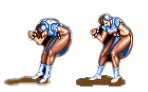
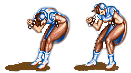
Player 2 Jump added and Reload on Health 0 feature added

diff --git a/Street_Fighter/js/player2.js b/Street_Fighter/js/player2.js
@@ -5,8 +5,7 @@ var Player2_resource = {
     punch: './images/chunli_assets/chun_punch2.png',
     block: './images/chunli_assets/chun_block.png',
     haduoken: './images/chunli_assets/chun_hadouken.png',
-    die: './images/chunli_assets/chun_die.png',
-    victory: './images/chunli_assets/chun_victory.png',
+    jump: './images/chunli_assets/chun_jump.png',
     values: {
       w: {
         x: 424,
@@ -21,10 +20,11 @@ var Player2_resource = {
         frameIndex: 0,
       },
       p: {
-        x: 171,
+        x: 95,
         y: 92,
-        f: 2,
+        f: 1,
         frameIndex: 1,
+        offsetX: 0.4,
       },
       b: {
         x: 132,
@@ -49,6 +49,11 @@ var Player2_resource = {
         y: 107,
         f: 4,
         frameIndex: 4,
+      },
+      j: {
+        x: 40,
+        y: 92,
+        f: 1,
       },
     },
   },
@@ -91,11 +96,19 @@ class Player2 {
 
     // Walk Image
     this.imgWalkp2 = new Image();
-    this.imgWalkp2.src = './images/chunli_assets/chun_walk.png';
-    this.imgWalkX = 424;
-    this.imgWalkY = 92;
-    this.imgWalkp2.frames = 8;
+    this.imgWalkp2.src = Player2_resource[this.player].walk;
+    this.imgWalkX = Player2_resource[this.player].values.w.x;
+    this.imgWalkY = Player2_resource[this.player].values.w.y;
+    this.imgWalkp2.frames = Player2_resource[this.player].values.w.f;
     this.imgWalkp2.frameIndex = 0;
+
+    //Jump Image
+    this.imgJumpp2 = new Image();
+    this.imgJumpp2.src = Player2_resource[this.player].jump;
+    this.imgJumpX = Player2_resource[this.player].values.j.x;
+    this.imgJumpY = Player2_resource[this.player].values.j.y;
+    this.imgJumpp2.frames = Player2_resource[this.player].values.j.f;
+    this.imgJumpp2.frameIndex = 0;
 
     //Punch Image
     this.imgPunchp2 = new Image();
@@ -117,10 +130,16 @@ class Player2 {
   }
 
   draw(framesCounter) {
+    if (this.startPointY < 150) {
+      this.states.jump = true;
+    }
     if (this.states.left || this.states.right) {
       this.drawWalk(framesCounter);
     } else if (this.states.punch) {
       this.drawPunch(framesCounter);
+    } else if (this.states.jump) {
+      console.log('jump2');
+      this.drawJump(framesCounter);
     } else if (this.states.block) {
       this.drawBlock(framesCounter);
     } else {
@@ -196,7 +215,7 @@ class Player2 {
       this.imgPunchY,
       this.startPointX,
       this.startPointY,
-      this.imgPunchX / 0.8,
+      this.imgPunchX / Player2_resource[this.player].values.p.offsetX,
       this.imgPunchY * this.yFrameAdjuster
     );
     this.animateImgPunch(framesCounter);
@@ -204,7 +223,7 @@ class Player2 {
 
   animateImgPunch(framesCounter) {
     if (framesCounter % 20 === 0) {
-      this.imgPunchp2.frameIndex -= 1;
+      this.imgPunchp2.frameIndex = 0;
 
       if (this.imgPunchp2.frameIndex < 0) this.imgPunchp2.frameIndex = 0;
     }
@@ -230,6 +249,32 @@ class Player2 {
     if (framesCounter % 30 === 0) {
       if (this.imgBlockp2.frameIndex > 1) this.imgBlockp2.frameIndex = 0;
     }
+  }
+
+  drawJump(framesCounter) {
+    this.ctx.drawImage(
+      this.imgJumpp2,
+      this.imgJumpp2.frameIndex *
+        Math.floor(this.imgJumpX / this.imgJumpp2.frames) *
+        3,
+      0,
+      Math.floor(this.imgJumpX / this.imgJumpp2.frames),
+      this.imgJumpY,
+      this.startPointX,
+      (this.startPointY -= 35),
+      this.imgJumpX / 0.4,
+      this.imgJumpY * this.yFrameAdjuster
+    );
+    this.animateImgJump(framesCounter);
+  }
+
+  animateImgJump(framesCounter) {
+    // this.startPointY = 40;
+    this.startPointY = 40;
+    setTimeout(() => {
+      this.startPointY = 150;
+      this.states.jump = false;
+    }, 200);
   }
 
   move() {

diff --git a/Street_Fighter/js/game.js b/Street_Fighter/js/game.js
@@ -6,6 +6,7 @@ var Game = {
     player1block: 69,
     player1punch: 88,
     player1jump: 87,
+    player1hadouken: 81,
 
     player2left: 74,
     player2right: 76,
@@ -120,9 +121,13 @@ var Game = {
 
   buttonslistener: function () {
     document.addEventListener('keydown', (e) => {
+      if (e.keyCode === this.keys.player2jump) {
+        this.player2.states.jump = true;
+      }
       if (e.keyCode === this.keys.player1jump) {
         this.player1.states.jump = true;
       }
+
       if (e.keyCode === this.keys.player2left) {
         this.player2.states.left = true;
       }
@@ -159,6 +164,9 @@ var Game = {
     document.addEventListener('keyup', (e) => {
       if (e.keyCode === this.keys.player1jump) {
         this.player1.states.jump = false;
+      }
+      if (e.keyCode === this.keys.player2jump) {
+        this.player2.states.jump = false;
       }
       if (e.keyCode === this.keys.player2left) {
         this.player2.states.left = false;
@@ -201,15 +209,33 @@ var Game = {
     if (this.player2.startPointX > 840) {
       this.player2.startPointX = 840;
     }
+    // if (this.player1.states.jump) {
+    //   this.player1.states.left = false;
+    //   this.player1.states.right = false;
+    // }
+    // if (this.player2.states.jump) {
+    //   this.player2.left = false;
+    //   this.player2.right = false;
+    //   this.player2.states.idle = false;
+    // }
     if (this.player2.life <= 0) {
       this.player1.states.left = false;
       this.player1.states.right = false;
+      this.player1.states.punch = false;
+      this.player2.states.punch = false;
       this.player1.states.hadouken = false;
+      setTimeout(() => {
+        location.reload();
+      }, 2000);
     }
     if (this.player1.life <= 0) {
       this.player2.states.left = false;
+      this.player2.states.punch = false;
       this.player2.states.right = false;
       this.player2.states.hadouken = false;
+      setTimeout(() => {
+        location.reload();
+      }, 2000);
     }
     // if (this.player2.lose) {
     //   clearInterval(intervalID);

diff --git a/Street_Fighter/js/player1.js b/Street_Fighter/js/player1.js
@@ -6,6 +6,7 @@ var Player1_source = {
     block: './images/ken_assets/ken_block.png',
     hit: './images/ken_assets/ken_hit.png',
     jump: './images/ken_assets/ken_jump2.png',
+
     values: {
       w: {
         x: 235,
@@ -46,6 +47,7 @@ class Player1 {
     this.player = selected;
     console.log(this.player);
     this.ctx = ctx;
+    this.life = 100;
     this.keys = keys;
     this.states = {
       left: false,
@@ -123,6 +125,9 @@ class Player1 {
   }
 
   draw(framesCounter) {
+    if (this.startPointY < 150) {
+      this.states.jump = true;
+    }
     if (this.states.left || this.states.right) {
       this.drawWalk(framesCounter);
     } else if (this.states.hit) {
@@ -134,7 +139,7 @@ class Player1 {
         this.states.hit = false;
       }, 350);
     } else if (this.states.jump) {
-      console.log('jump');
+      console.log('jump1');
       this.drawJump(framesCounter);
       // setTimeout(() => {
       //
@@ -226,11 +231,11 @@ class Player1 {
   }
 
   animateImgJump(framesCounter) {
-    this.startPointY = 10;
+    this.startPointY = 40;
     setTimeout(() => {
       this.startPointY = 150;
       this.states.jump = false;
-    }, 300);
+    }, 200);
   }
 
   drawPunch(framesCounter) {
@@ -281,7 +286,7 @@ class Player1 {
   }
 
   animateImgJump(framesCounter) {
-    this.startPointY = 10;
+    this.startPointY = 40;
     setTimeout(() => {
       this.startPointY = 150;
       this.states.jump = false;
